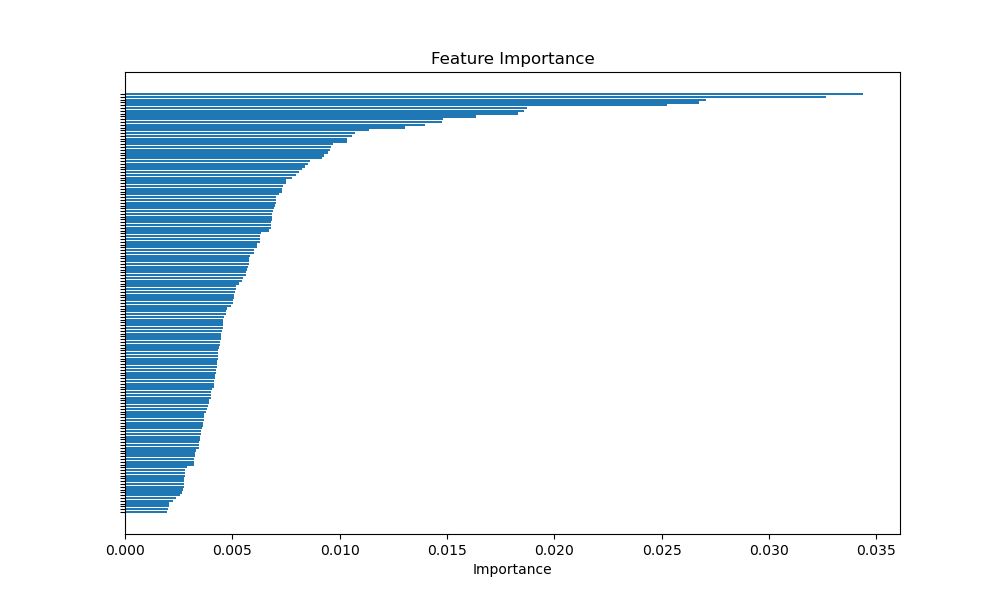
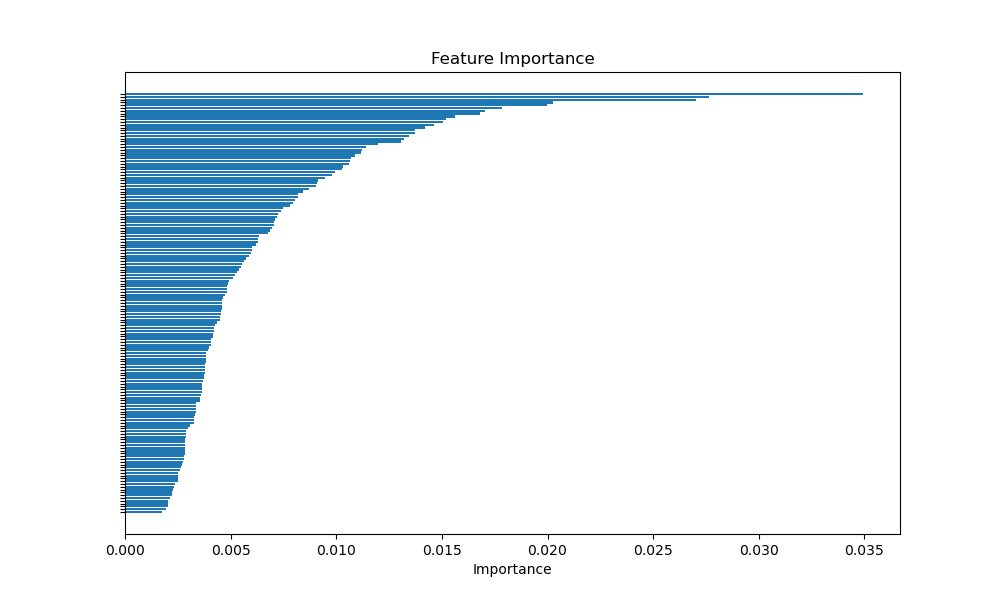
Rerun feat. engineering

diff --git a/feature_engineering/rfe.py b/feature_engineering/rfe.py
@@ -36,8 +36,9 @@ def get_model_results(X, y) -> dict:
     models = dict()
 
     for n_features_to_select in range(5, X.shape[1] + 1, 5):
-        # if n_features_to_select != 125:
-        #     continue
+        selected = 80
+        if n_features_to_select != selected:
+            continue
         model = SVC(
             kernel='linear',
             random_state=42,
@@ -55,17 +56,17 @@ def get_model_results(X, y) -> dict:
             ('m', model)
         ])
 
-        # We have chosen 125 as the best number of features
-        # to train with
-        # if n_features_to_select == 125:
-        #     features_selected = rfe.support_
+        # We have chosen X as the best number of features
+        # to train with based on average accuracy and std
+        if n_features_to_select == selected:
+            features_selected = rfe.support_
 
-        #     labels = [lab for lab, selected in zip(
-        #         X.columns,
-        #         features_selected) if selected]
+            labels = [lab for lab, selected in zip(
+                X.columns,
+                features_selected) if selected]
 
-        #     with open(f'{CURRENT_DIR}/selected_features.pickle', 'wb') as file:
-        #         pickle.dump(labels, file)
+            with open(f'{CURRENT_DIR}/selected_features.pickle', 'wb') as file:
+                pickle.dump(labels, file)
 
     return models
 
